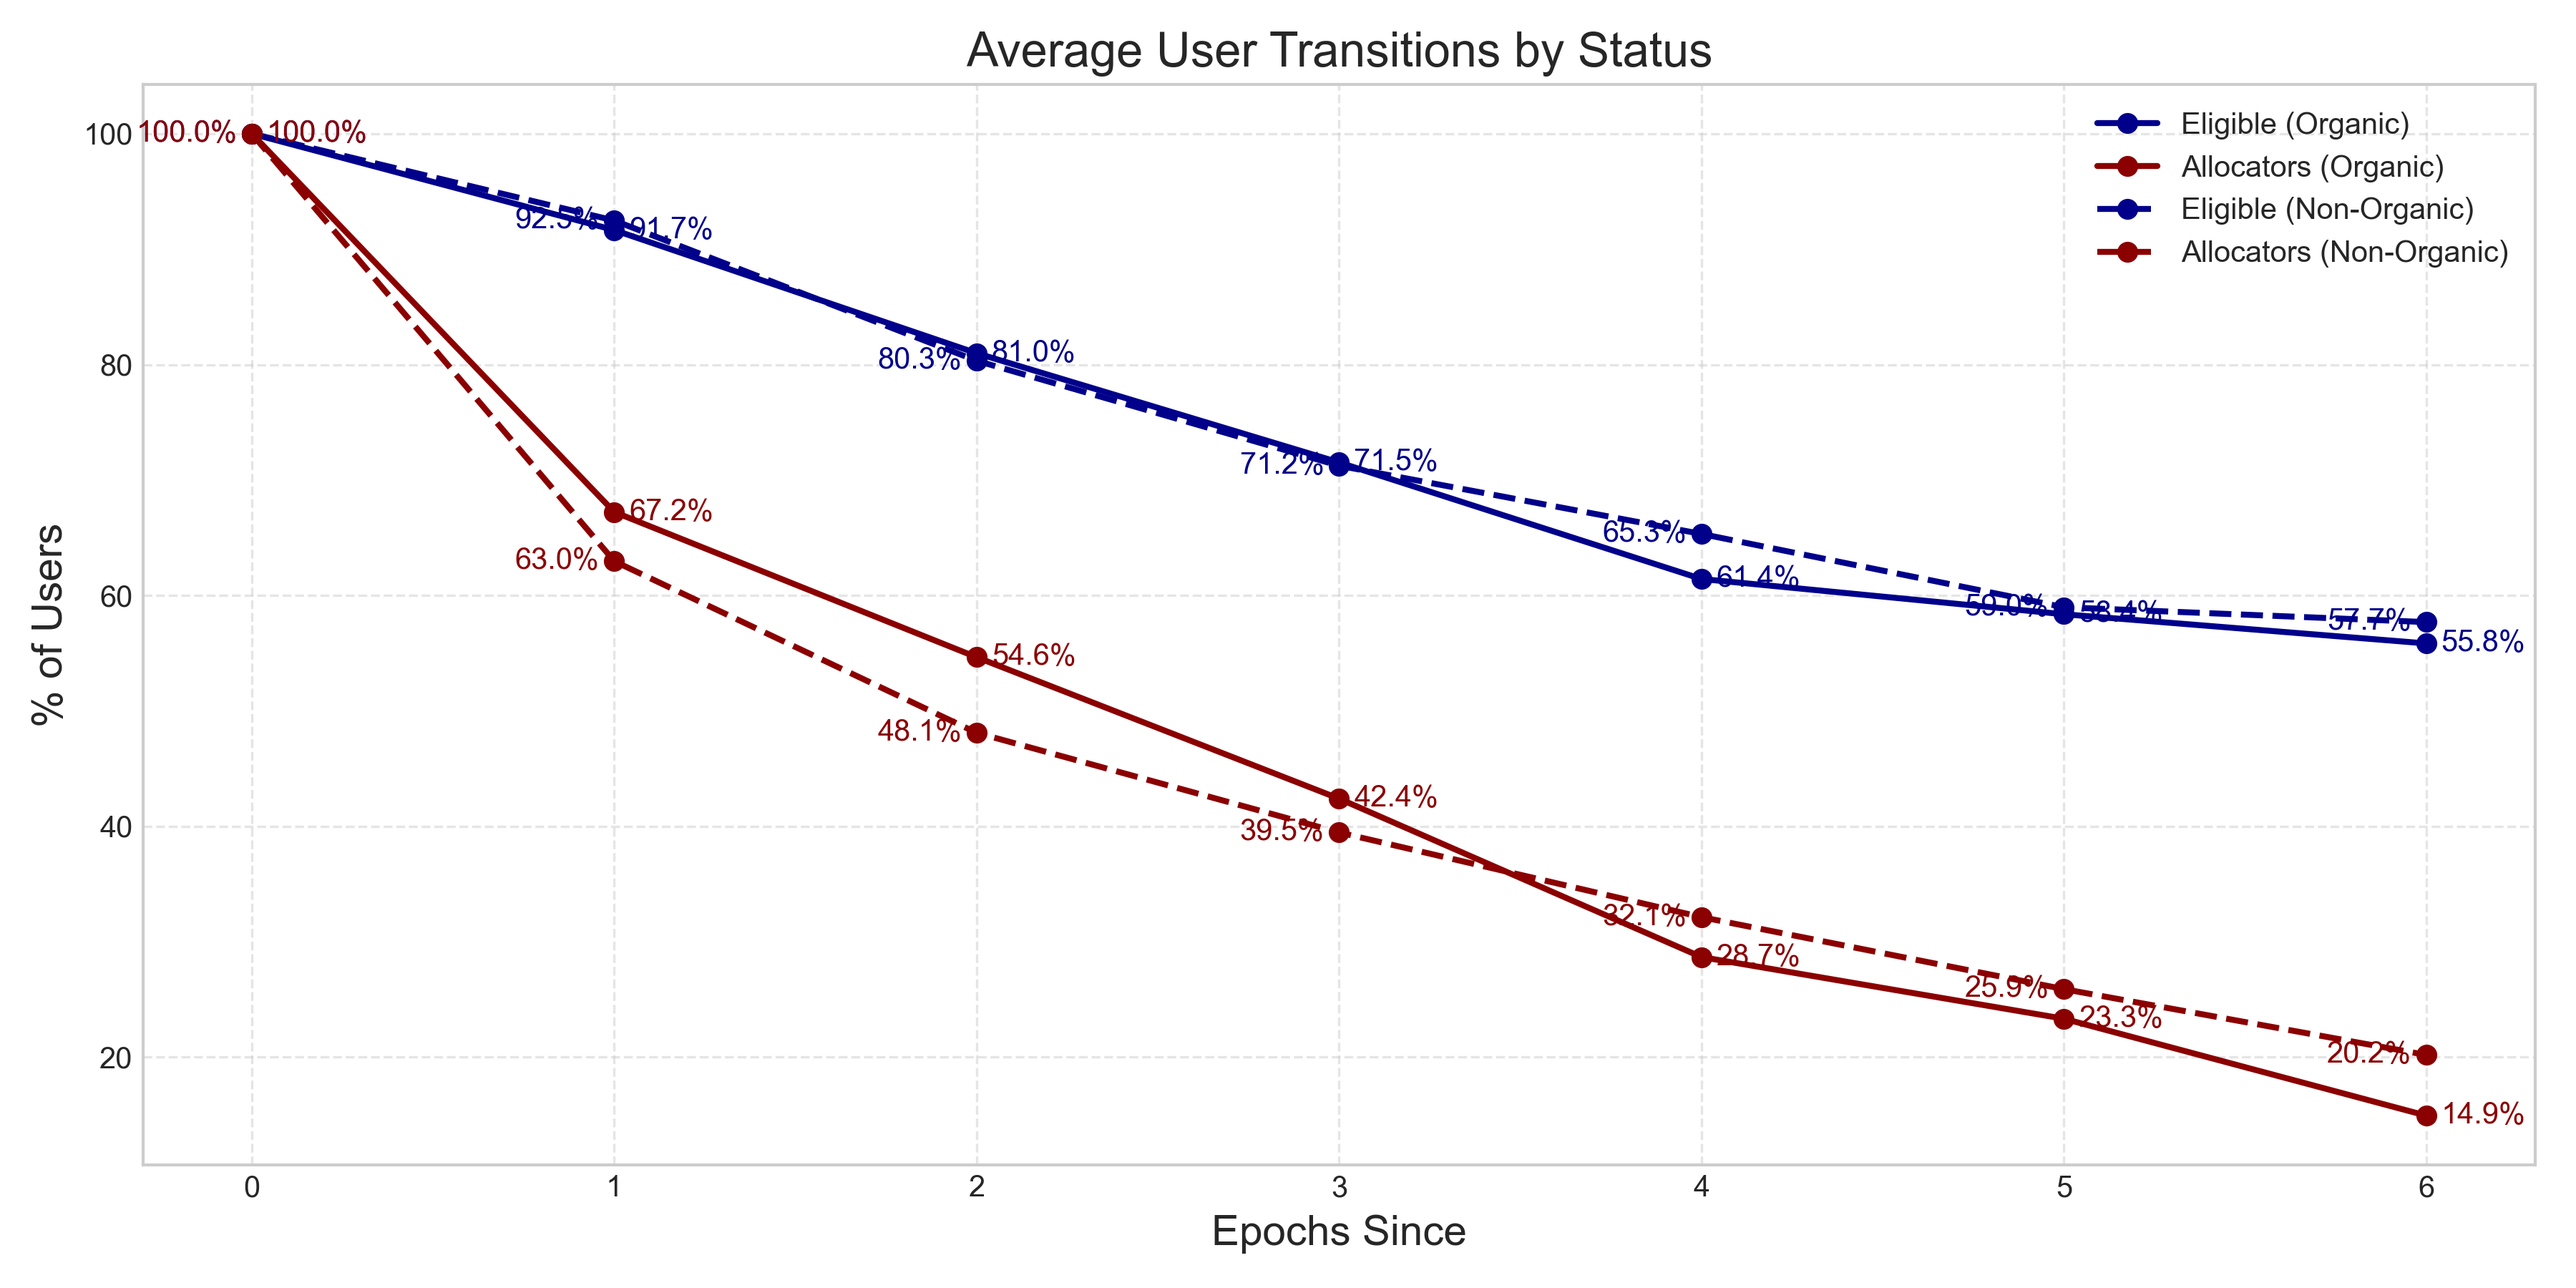
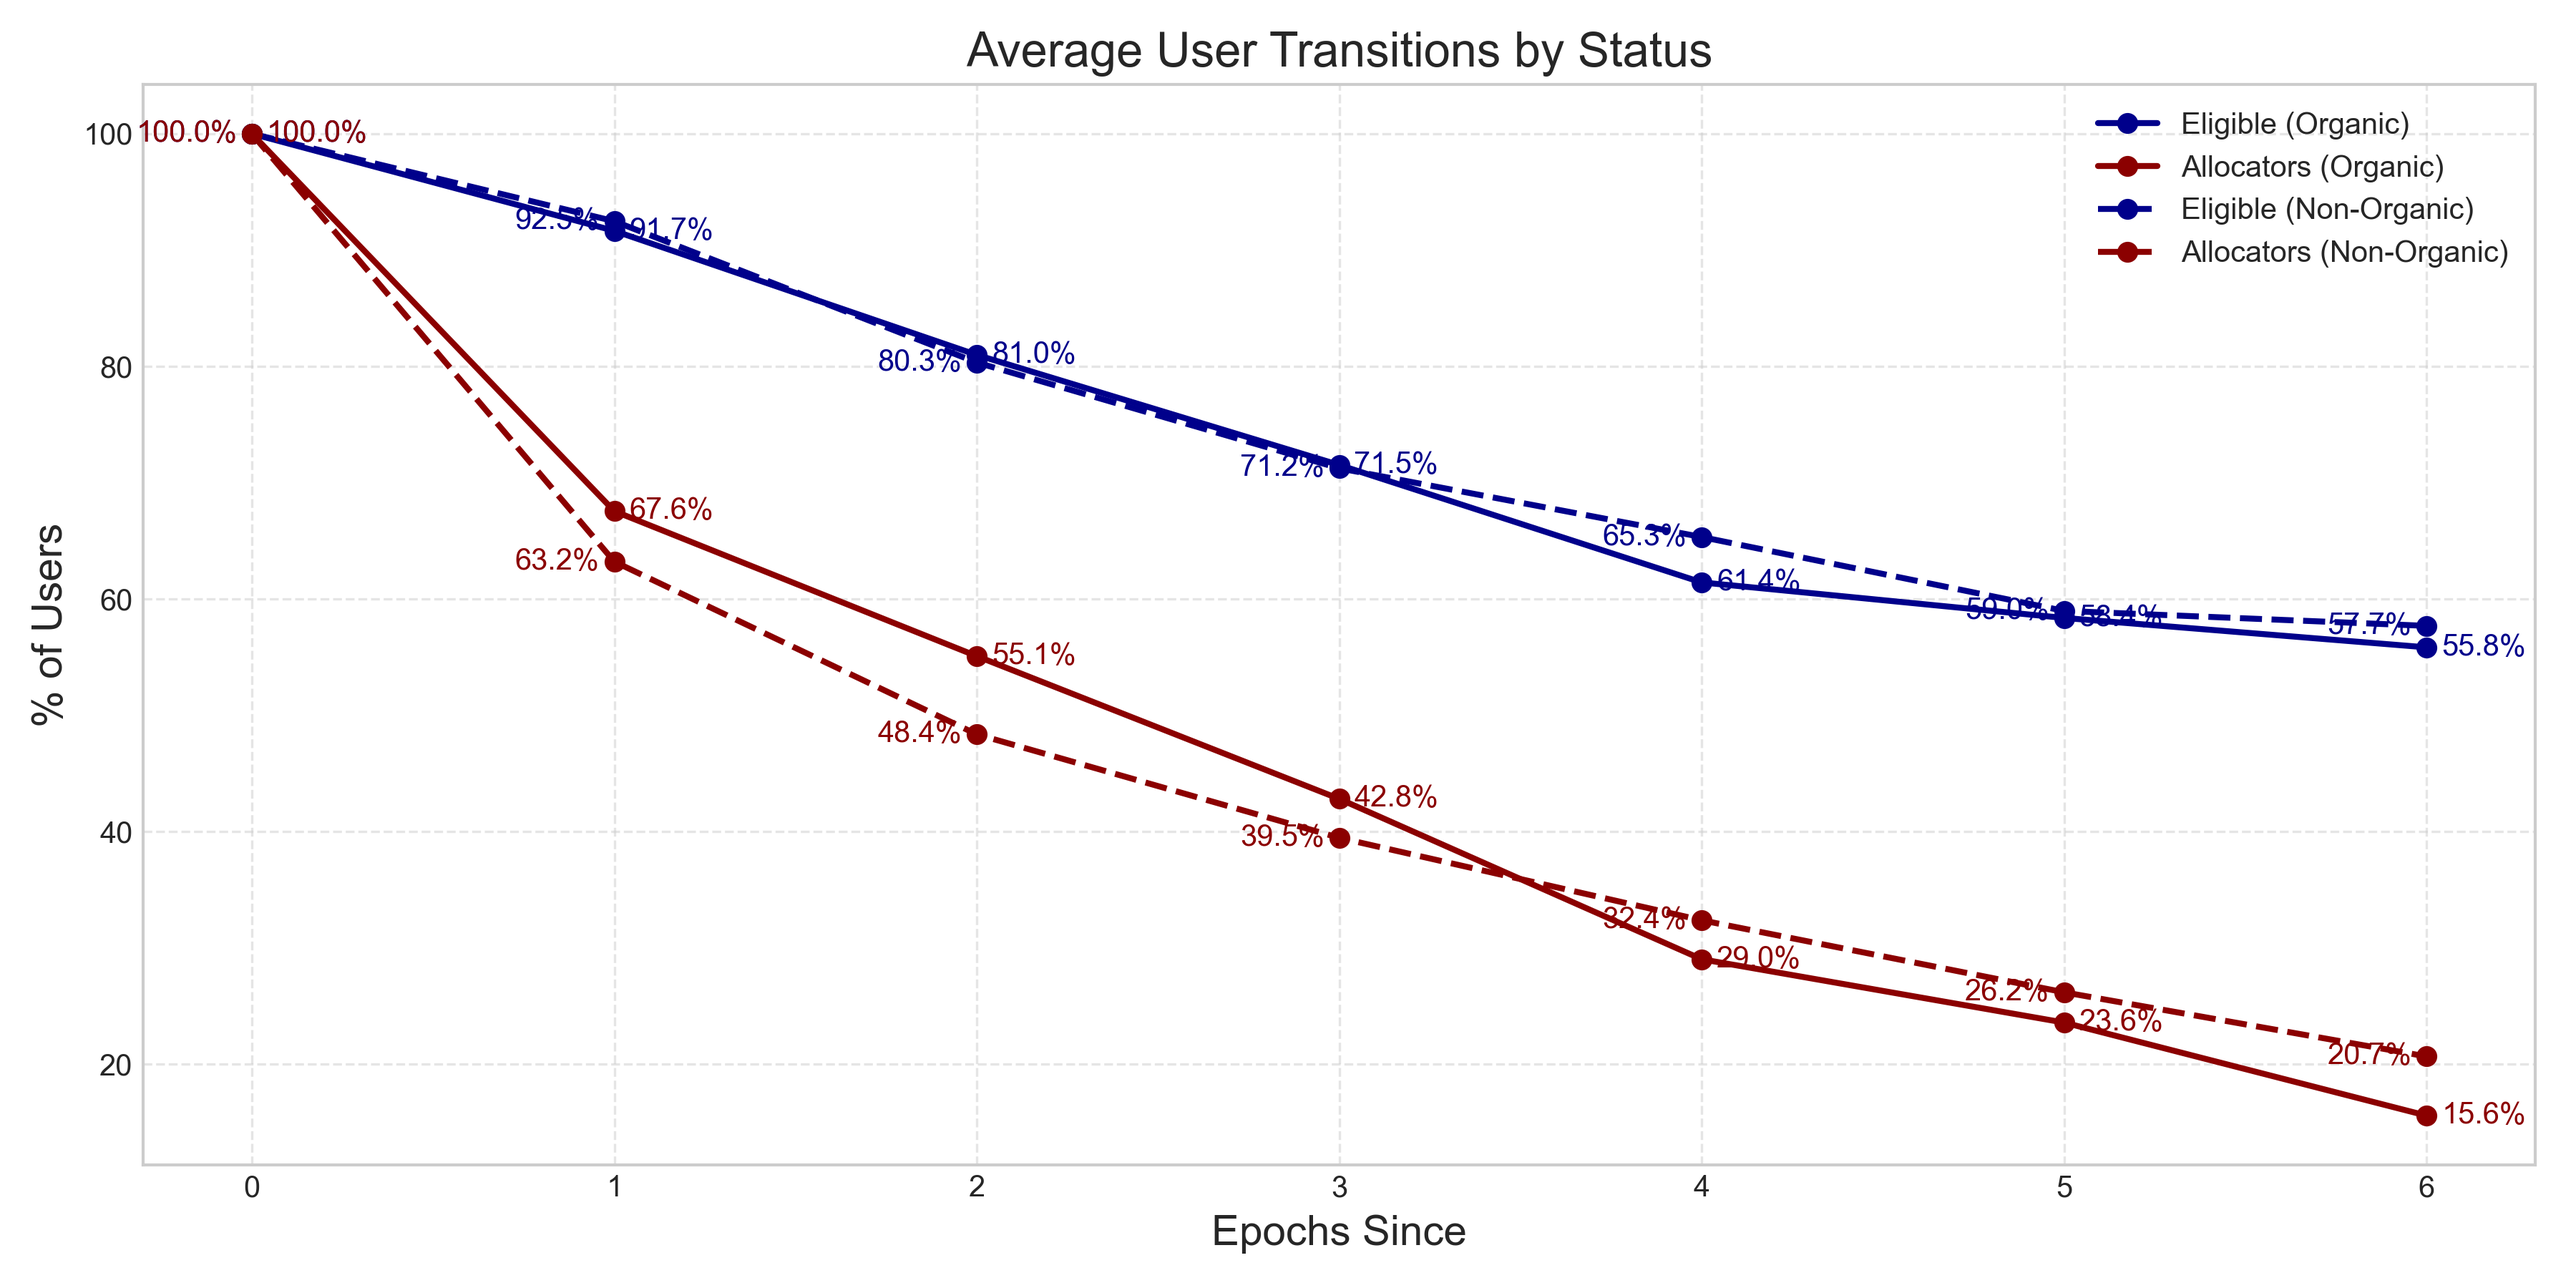
update data

diff --git a/_site/e7.html b/_site/e7.html
@@ -158,11 +158,11 @@
     <tr>
       <td style="width: 1%; text-align: center; padding: 8px; word-wrap: break-word; white-space: normal;">7</td>
       <td style="width: 1%; text-align: center; padding: 8px; word-wrap: break-word; white-space: normal;">211.906</td>
-      <td style="width: 1%; text-align: center; padding: 8px; word-wrap: break-word; white-space: normal;">202.794</td>
-      <td style="width: 1%; text-align: center; padding: 8px; word-wrap: break-word; white-space: normal;">3.324</td>
+      <td style="width: 1%; text-align: center; padding: 8px; word-wrap: break-word; white-space: normal;">202.858</td>
+      <td style="width: 1%; text-align: center; padding: 8px; word-wrap: break-word; white-space: normal;">3.370</td>
       <td style="width: 1%; text-align: center; padding: 8px; word-wrap: break-word; white-space: normal;">4.3</td>
       <td style="width: 1%; text-align: center; padding: 8px; word-wrap: break-word; white-space: normal;">95.7</td>
-      <td style="width: 1%; text-align: center; padding: 8px; word-wrap: break-word; white-space: normal;">1.6</td>
+      <td style="width: 1%; text-align: center; padding: 8px; word-wrap: break-word; white-space: normal;">1.7</td>
     </tr>
   </tbody>
 </table>
@@ -229,9 +229,9 @@
     <tr>
       <td style="width: 1%; text-align: center; padding: 8px; word-wrap: break-word; white-space: normal;">7</td>
       <td style="width: 1%; text-align: center; padding: 8px; word-wrap: break-word; white-space: normal;">2162</td>
-      <td style="width: 1%; text-align: center; padding: 8px; word-wrap: break-word; white-space: normal;">481</td>
-      <td style="width: 1%; text-align: center; padding: 8px; word-wrap: break-word; white-space: normal;">424</td>
-      <td style="width: 1%; text-align: center; padding: 8px; word-wrap: break-word; white-space: normal;">22.2</td>
+      <td style="width: 1%; text-align: center; padding: 8px; word-wrap: break-word; white-space: normal;">501</td>
+      <td style="width: 1%; text-align: center; padding: 8px; word-wrap: break-word; white-space: normal;">442</td>
+      <td style="width: 1%; text-align: center; padding: 8px; word-wrap: break-word; white-space: normal;">23.2</td>
     </tr>
   </tbody>
 </table>
@@ -297,10 +297,10 @@
     </tr>
     <tr>
       <td style="width: 1%; text-align: center; padding: 8px; word-wrap: break-word; white-space: normal;">7</td>
-      <td style="width: 1%; text-align: center; padding: 8px; word-wrap: break-word; white-space: normal;">85</td>
-      <td style="width: 1%; text-align: center; padding: 8px; word-wrap: break-word; white-space: normal;">17</td>
-      <td style="width: 1%; text-align: center; padding: 8px; word-wrap: break-word; white-space: normal;">28</td>
-      <td style="width: 1%; text-align: center; padding: 8px; word-wrap: break-word; white-space: normal;">185</td>
+      <td style="width: 1%; text-align: center; padding: 8px; word-wrap: break-word; white-space: normal;">90</td>
+      <td style="width: 1%; text-align: center; padding: 8px; word-wrap: break-word; white-space: normal;">18</td>
+      <td style="width: 1%; text-align: center; padding: 8px; word-wrap: break-word; white-space: normal;">29</td>
+      <td style="width: 1%; text-align: center; padding: 8px; word-wrap: break-word; white-space: normal;">191</td>
     </tr>
   </tbody>
 </table>
@@ -598,7 +598,7 @@
             <span>Octant Monitor</span>
         </div>
         <div class="footer-info">
-            <p class="footer-update">Last update: 2025-04-23 15:16:07</p>
+            <p class="footer-update">Last update: 2025-04-23 22:59:16</p>
             <p class="copyright">&copy; 2025 Octant. All rights reserved.</p>
         </div>
     </div>

diff --git a/_includes/e7/table_amounts.html b/_includes/e7/table_amounts.html
@@ -68,11 +68,11 @@
     <tr>
       <td style="width: 1%; text-align: center; padding: 8px; word-wrap: break-word; white-space: normal;">7</td>
       <td style="width: 1%; text-align: center; padding: 8px; word-wrap: break-word; white-space: normal;">211.906</td>
-      <td style="width: 1%; text-align: center; padding: 8px; word-wrap: break-word; white-space: normal;">202.794</td>
-      <td style="width: 1%; text-align: center; padding: 8px; word-wrap: break-word; white-space: normal;">3.324</td>
+      <td style="width: 1%; text-align: center; padding: 8px; word-wrap: break-word; white-space: normal;">202.858</td>
+      <td style="width: 1%; text-align: center; padding: 8px; word-wrap: break-word; white-space: normal;">3.370</td>
       <td style="width: 1%; text-align: center; padding: 8px; word-wrap: break-word; white-space: normal;">4.3</td>
       <td style="width: 1%; text-align: center; padding: 8px; word-wrap: break-word; white-space: normal;">95.7</td>
-      <td style="width: 1%; text-align: center; padding: 8px; word-wrap: break-word; white-space: normal;">1.6</td>
+      <td style="width: 1%; text-align: center; padding: 8px; word-wrap: break-word; white-space: normal;">1.7</td>
     </tr>
   </tbody>
 </table>

diff --git a/_includes/e7/table_cohorts.html b/_includes/e7/table_cohorts.html
@@ -53,10 +53,10 @@
     </tr>
     <tr>
       <td style="width: 1%; text-align: center; padding: 8px; word-wrap: break-word; white-space: normal;">7</td>
-      <td style="width: 1%; text-align: center; padding: 8px; word-wrap: break-word; white-space: normal;">85</td>
-      <td style="width: 1%; text-align: center; padding: 8px; word-wrap: break-word; white-space: normal;">17</td>
-      <td style="width: 1%; text-align: center; padding: 8px; word-wrap: break-word; white-space: normal;">28</td>
-      <td style="width: 1%; text-align: center; padding: 8px; word-wrap: break-word; white-space: normal;">185</td>
+      <td style="width: 1%; text-align: center; padding: 8px; word-wrap: break-word; white-space: normal;">90</td>
+      <td style="width: 1%; text-align: center; padding: 8px; word-wrap: break-word; white-space: normal;">18</td>
+      <td style="width: 1%; text-align: center; padding: 8px; word-wrap: break-word; white-space: normal;">29</td>
+      <td style="width: 1%; text-align: center; padding: 8px; word-wrap: break-word; white-space: normal;">191</td>
     </tr>
   </tbody>
 </table>

diff --git a/_includes/e7/table_users.html b/_includes/e7/table_users.html
@@ -54,9 +54,9 @@
     <tr>
       <td style="width: 1%; text-align: center; padding: 8px; word-wrap: break-word; white-space: normal;">7</td>
       <td style="width: 1%; text-align: center; padding: 8px; word-wrap: break-word; white-space: normal;">2162</td>
-      <td style="width: 1%; text-align: center; padding: 8px; word-wrap: break-word; white-space: normal;">481</td>
-      <td style="width: 1%; text-align: center; padding: 8px; word-wrap: break-word; white-space: normal;">424</td>
-      <td style="width: 1%; text-align: center; padding: 8px; word-wrap: break-word; white-space: normal;">22.2</td>
+      <td style="width: 1%; text-align: center; padding: 8px; word-wrap: break-word; white-space: normal;">501</td>
+      <td style="width: 1%; text-align: center; padding: 8px; word-wrap: break-word; white-space: normal;">442</td>
+      <td style="width: 1%; text-align: center; padding: 8px; word-wrap: break-word; white-space: normal;">23.2</td>
     </tr>
   </tbody>
 </table>

diff --git a/_site/e5.html b/_site/e5.html
@@ -373,7 +373,7 @@
             <span>Octant Monitor</span>
         </div>
         <div class="footer-info">
-            <p class="footer-update">Last update: 2025-04-23 15:16:07</p>
+            <p class="footer-update">Last update: 2025-04-23 22:59:16</p>
             <p class="copyright">&copy; 2025 Octant. All rights reserved.</p>
         </div>
     </div>

diff --git a/_site/e6.html b/_site/e6.html
@@ -518,7 +518,7 @@
             <span>Octant Monitor</span>
         </div>
         <div class="footer-info">
-            <p class="footer-update">Last update: 2025-04-23 15:16:07</p>
+            <p class="footer-update">Last update: 2025-04-23 22:59:16</p>
             <p class="copyright">&copy; 2025 Octant. All rights reserved.</p>
         </div>
     </div>

diff --git a/_site/index.html b/_site/index.html
@@ -121,7 +121,7 @@
             <span>Octant Monitor</span>
         </div>
         <div class="footer-info">
-            <p class="footer-update">Last update: 2025-04-23 15:16:07</p>
+            <p class="footer-update">Last update: 2025-04-23 22:59:16</p>
             <p class="copyright">&copy; 2025 Octant. All rights reserved.</p>
         </div>
     </div>

diff --git a/_includes/e7/current_datetime.html b/_includes/e7/current_datetime.html
@@ -7,6 +7,6 @@
     <title>Current Date and Time</title>
 </head>
 <body>
-    <p>Last update: 2025-04-23 15:16:01</p>
+    <p>Last update: 2025-04-23 22:59:06</p>
 </body>
 </html>
